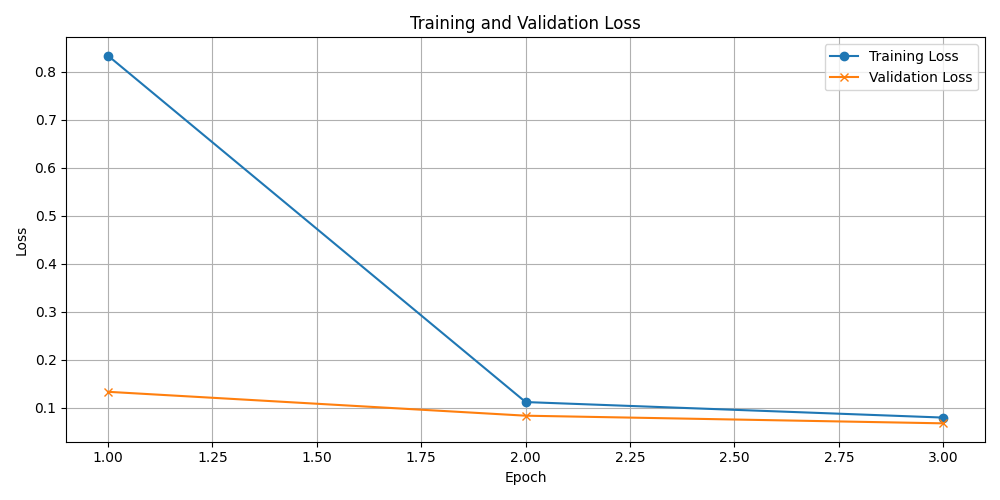
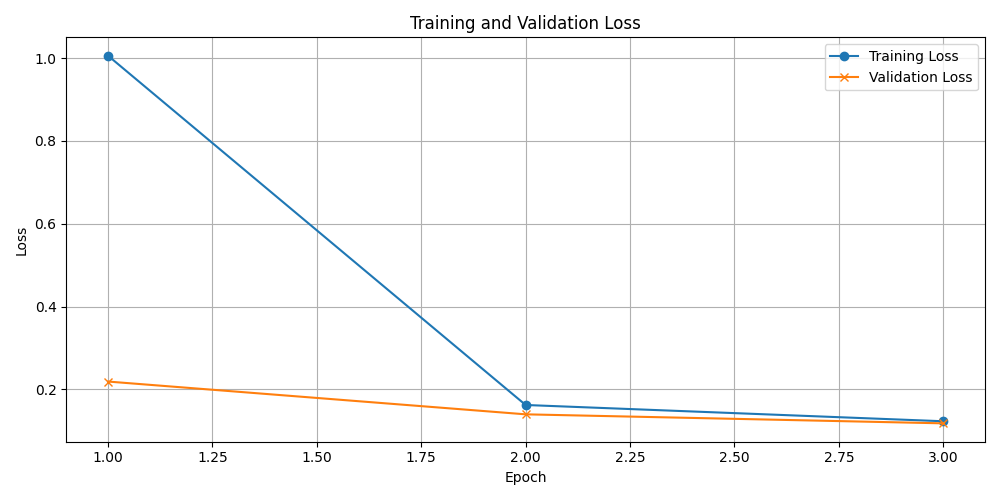
PDLPR augmentation parameters

diff --git a/main.py b/main.py
@@ -41,16 +41,16 @@ if __name__ == "__main__":
     train_folder = r"C:\Users\Lorenzo\Desktop\Computer_Vision_\dataset_cv\CCPD2019\ccpd_base"
     
     #PDLPR_training(train_folder, batch_size=32, num_epochs=5)
-    #PDLPR_training_augmentation(train_folder, num_epochs=50, batch_size=32)
+    PDLPR_training_augmentation(train_folder, num_epochs=3, batch_size=32)
 
 
 
     # ------ inference ------ #
 
     print("PDLPR Inference ...")
-    #test_folder = r"C:\Users\Lorenzo\Desktop\Computer_Vision_\dataset_cv\CCPD2019\ccpd_fn"
-    test_folder1 = r"C:\Users\loreb\Desktop\CV\dataset_cv\CCPD2019_extracted\CCPD2019\ccpd_fn"
-    PDLPR_inference(test_folder1, batch_size=64)
+    test_folder = r"C:\Users\Lorenzo\Desktop\Computer_Vision_\dataset_cv\CCPD2019\ccpd_rotate"
+    #test_folder1 = r"C:\Users\loreb\Desktop\CV\dataset_cv\CCPD2019_extracted\CCPD2019\ccpd_fn"
+    PDLPR_inference(test_folder, batch_size=64)
     
     #base_path = r"C:\Users\loreb\Desktop\CV\dataset_cv\CCPD2019_extracted\CCPD2019"
     #all_inference(base_path, batch_size=64)

diff --git a/src/PDLPR/augmentation.py b/src/PDLPR/augmentation.py
@@ -9,7 +9,7 @@ class FullRobustAugmentation:
         self.base = transforms.Compose([
             transforms.Resize((48, 144)),
             transforms.ColorJitter(brightness=0.6, contrast=0.6, saturation=0.3, hue=0.1),
-            transforms.RandomRotation(degrees=20),
+            transforms.RandomRotation(degrees=30),
             transforms.RandomAffine(degrees=0, shear=10),
             transforms.RandomPerspective(distortion_scale=0.4, p=0.5),
             transforms.GaussianBlur(kernel_size=3, sigma=(0.1, 2.0)),
@@ -18,13 +18,13 @@ class FullRobustAugmentation:
     def __call__(self, img):
         img = self.base(img)
 
-        if random.random() < 0.3:
+        if random.random() < 0.8:
             img = self.random_motion_blur(img)
 
-        if random.random() < 0.3:
+        if random.random() < 0.8:
             img = self.random_occlusion(img)
 
-        if random.random() < 0.2:
+        if random.random() < 0.8:
             img = self.random_compression(img)
 
         return TF.to_tensor(img)

diff --git a/src/PDLPR/inference.py b/src/PDLPR/inference.py
@@ -21,7 +21,7 @@ def PDLPR_inference(dataset_folder, batch_size=64):
         num_classes=num_classes,
         seq_len=seq_len
     ).to(device)
-    model.load_state_dict(torch.load("src\PDLPR\weights\pdlpr_epoch46.pth", map_location=device))
+    model.load_state_dict(torch.load("src\PDLPR\weights\pdlpr_final.pth", map_location=device))
     model.eval()
 
     def decode_plate_pred(seq):

diff --git a/src/PDLPR/training_augmentation.py b/src/PDLPR/training_augmentation.py
@@ -74,7 +74,7 @@ tokenizer = SimplePlateTokenizer(charset)
 num_classes = tokenizer.vocab_size()
 seq_len = 8  # lunghezza massima targa CCPD
 
-from augmentation import FullRobustAugmentation
+from src.PDLPR.augmentation import FullRobustAugmentation
 
 # --- Dataset CCPD ---
 class CCPDPlateDataset(Dataset):
